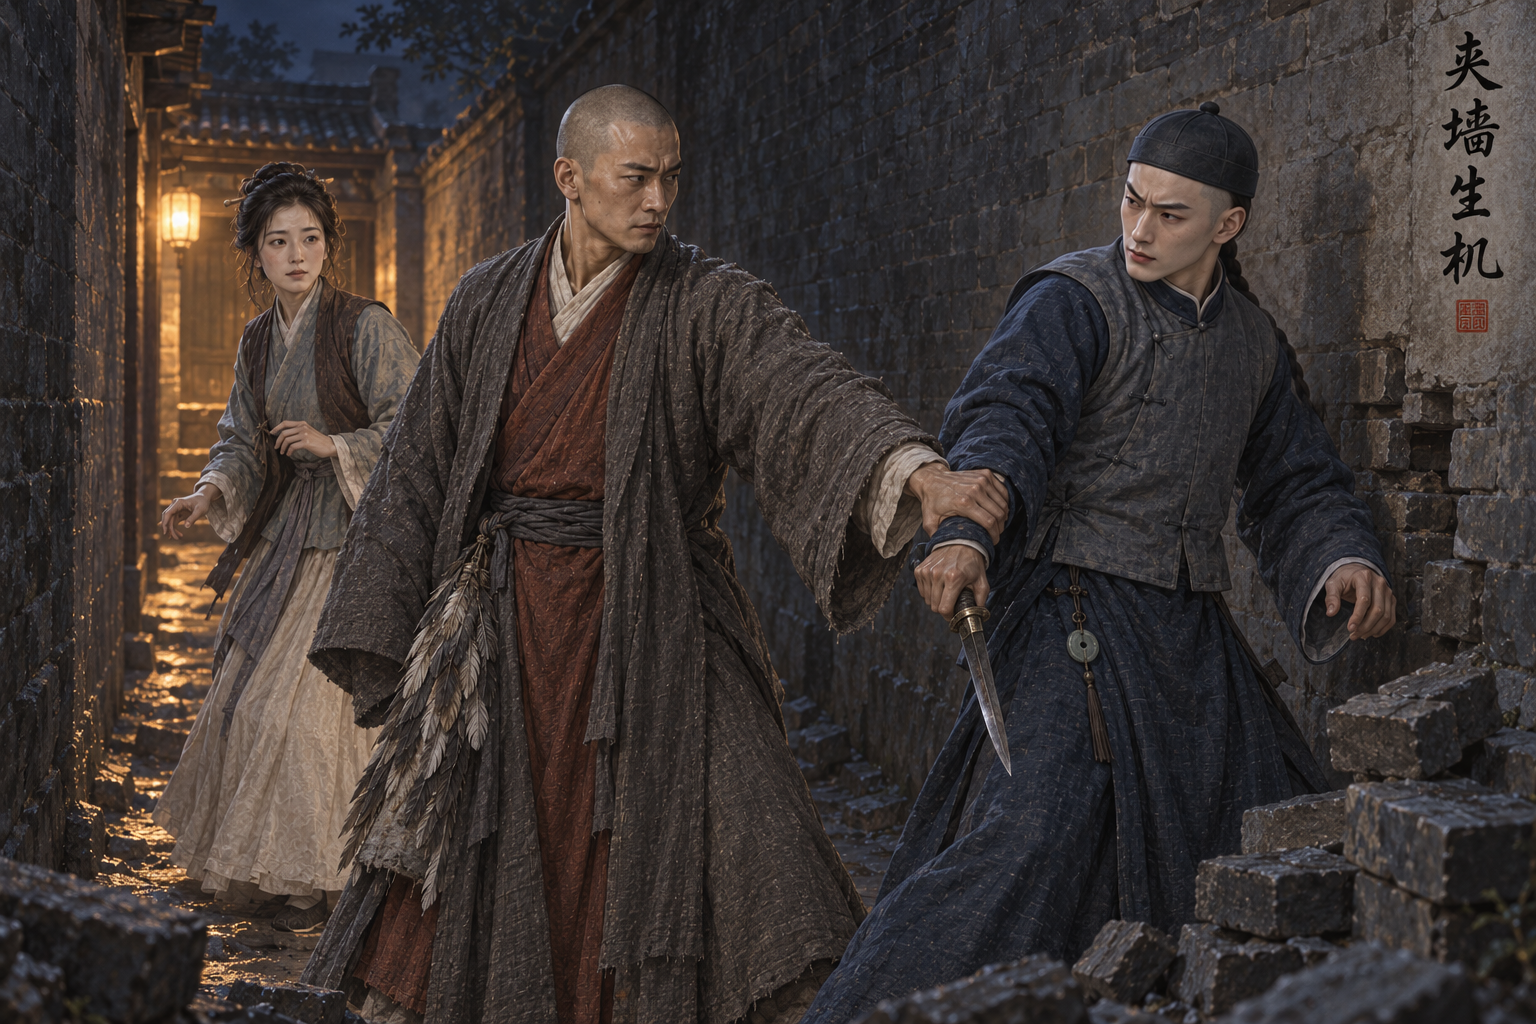
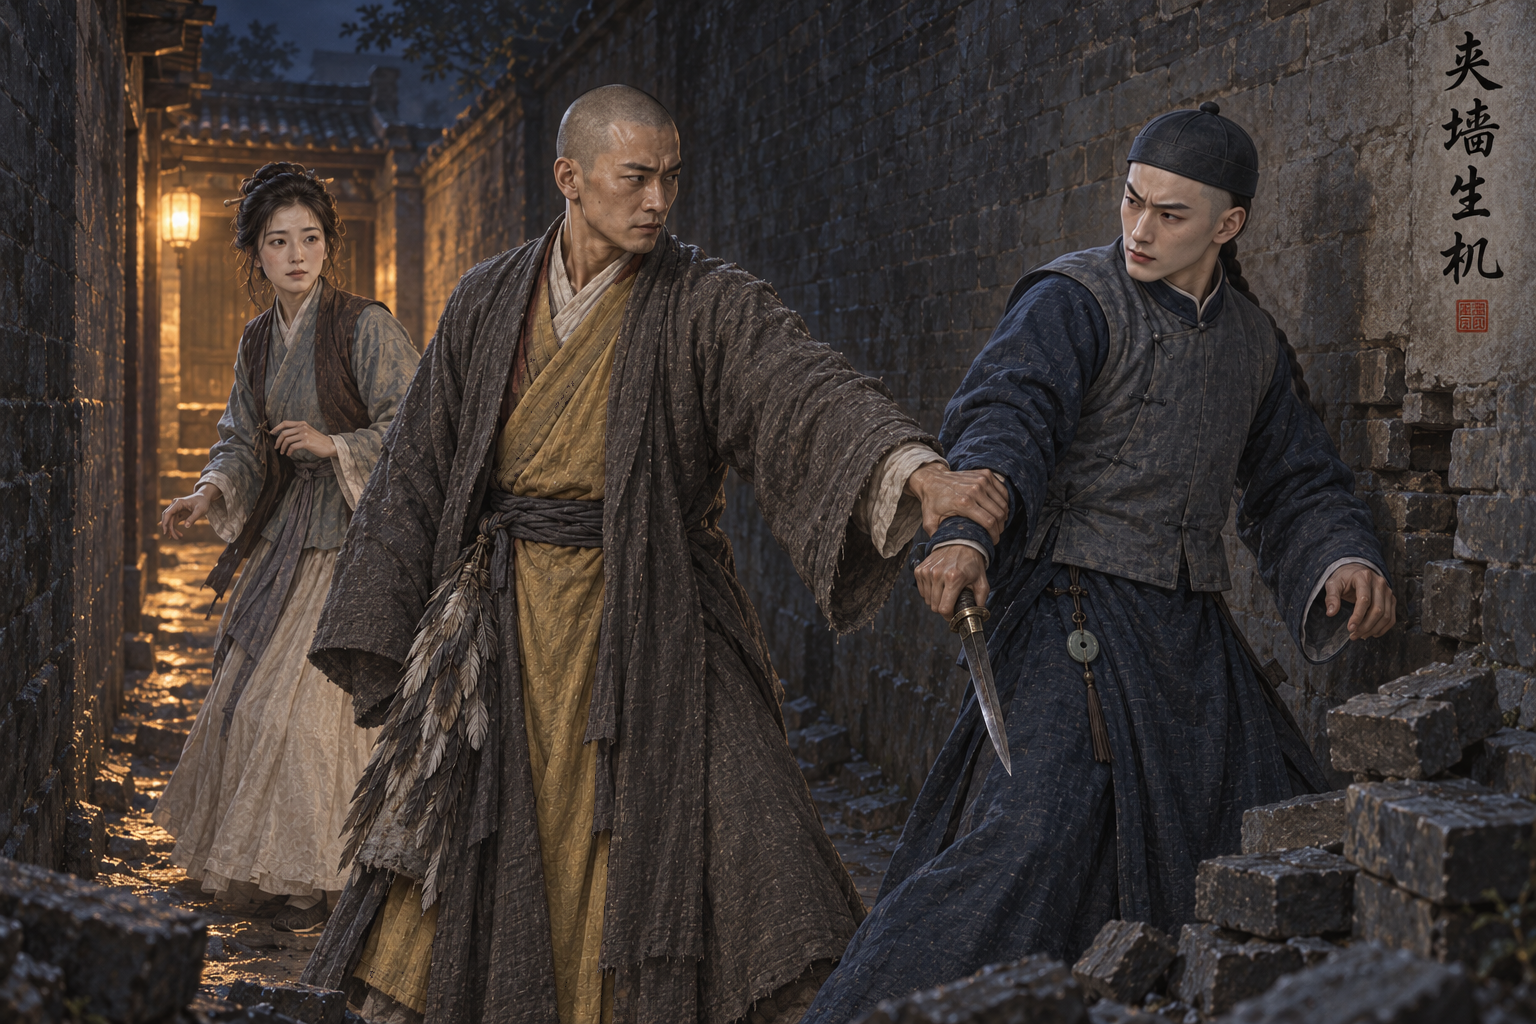
assets: AR-82 原著核对返修 夹墙生机狄云承接旧黄僧衣
夹墙生机狄云承接旧黄僧衣；原著摘句已同步提示词；蒙版外变化0像素。

Executed-By: Codex gpt-6.1-sol（AR-82）

Changed region(s): [[0.3125, 0.5312, 0.4062, 1.0], [0.3125, 0.2812, 0.4062, 0.5], [0.2188, 0.875, 0.2812, 1.0]]

diff --git a/assets/default/prompts/scenes/ch09-liancheng/cg_ch09_wall_rescue.md b/assets/default/prompts/scenes/ch09-liancheng/cg_ch09_wall_rescue.md
@@ -37,6 +37,12 @@ title_verified: 逐字放大核验：夹 / 墙 / 生 / 机；原生正确
 story_review: resolved
 ---
 
+## AR-82 当前定稿要求
+
+只把画面中央狄云身上的砖红内层旧僧衣改褪色土黄，与他自宝象处取得、雪谷继续穿用的黄袍一致。保持灰外披、腰带、羽物、本人脸头发、双手脚、接触动作全原样；右侧少年和左后方女子的全部像素、墙巷、灯火与题字完全不动，不重画其他人。
+
+以上为当前原著核对后的要求，覆盖下文旧版中与之冲突的服饰、器物、伤残、光线和体态描述。
+
 ## Gemini 提示词
 
 ```text
@@ -58,3 +64,8 @@ story_review: resolved
 
 - 参考分工见实际提示词；配色、姿势、取景及成年化均为（原创扩展）。
 - 本轮结果已逐图目检并入库为 candidate；实际作业与参考哈希见 manifest。
+
+## 原著依据
+
+- 《连城诀》六《血刀老祖》：“身穿黄袍”（https://xuges.com/WUXIA/jinyong/lcj/033.htm）
+- AR-82 返修约束：只把画面中央狄云身上的砖红内层旧僧衣改褪色土黄，与他自宝象处取得、雪谷继续穿用的黄袍一致。保持灰外披、腰带、羽物、本人脸头发、双手脚、接触动作全原样；右侧少年和左后方女子的全部像素、墙巷、灯火与题字完全不动，不重画其他人。
